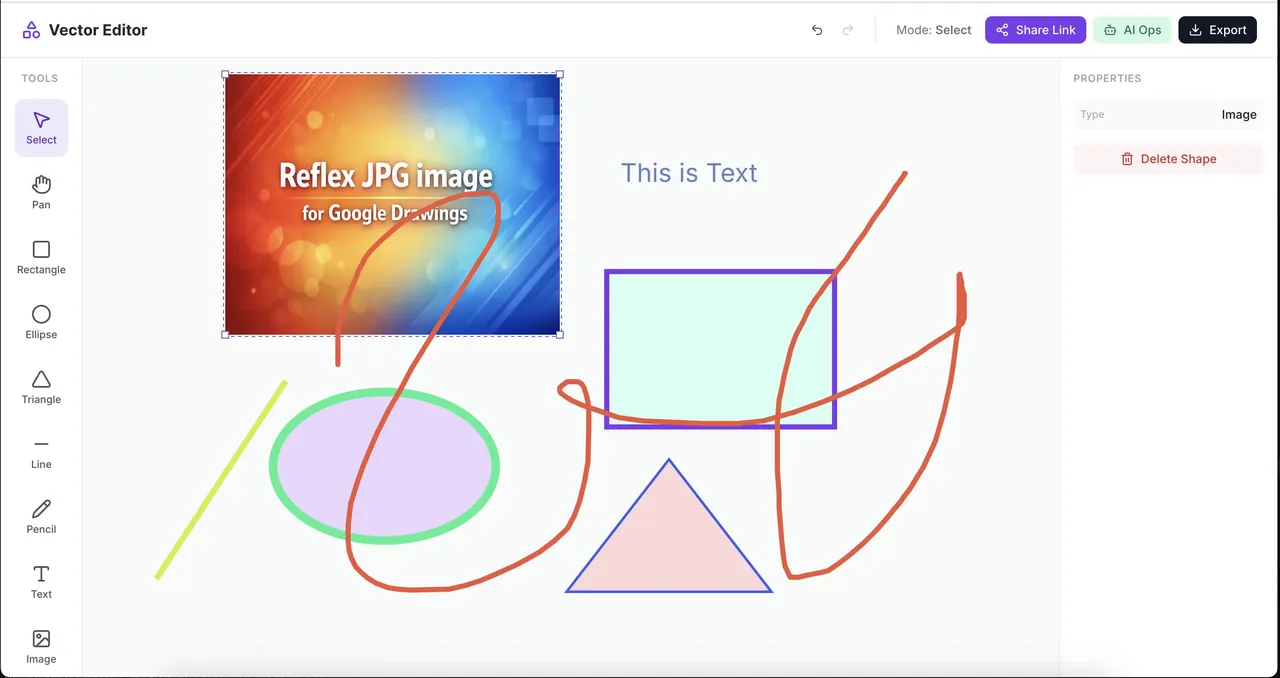
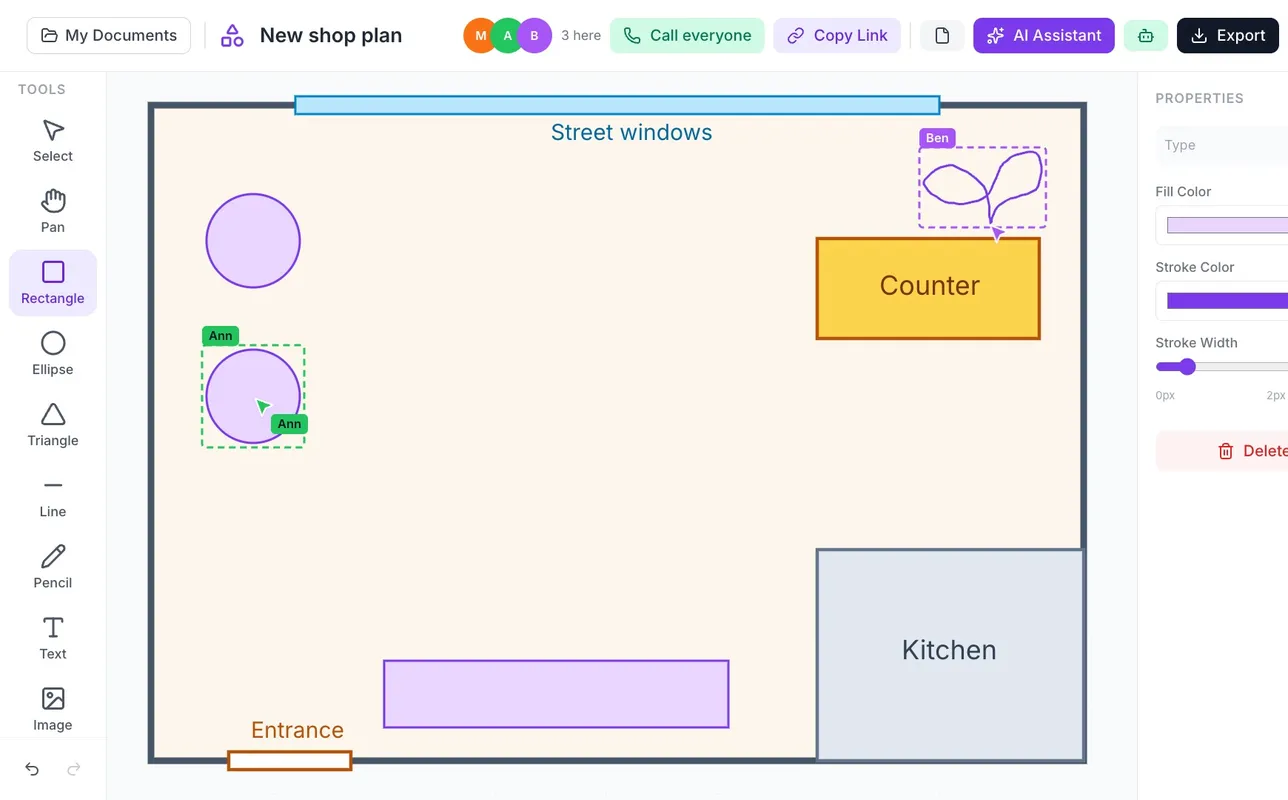
docs: Show Codoc in VecDraw in Relack and CoDoc in MD on the website
Add a story, "One picture. Always the latest.", with a picture of the
same drawing as a Relack card and inside a CoDoc in MD document.

Add the new VecDraw film in English and Chinese to the Videos section
and to the VecDraw, CoDoc in MD, Relack, AI Hub and LiveKit cards.

Rewrite the VecDraw card around links, cards, live pictures and AI, in
all 5 catalog languages, with a new picture. It now carries the AI tag.
Mention VecDraw on the CoDoc in MD and Relack cards, and update the
three rows in the README.

diff --git a/docs/site/apps.js b/docs/site/apps.js
@@ -25,8 +25,8 @@ window.AAS_APPS = [
   "repo": "https://github.com/milochen0418/codoc_in_md",
   "icon": "<svg class=\"lucide lucide-file-text\" xmlns=\"http://www.w3.org/2000/svg\" viewBox=\"0 0 24 24\" fill=\"none\" stroke=\"currentColor\" stroke-width=\"2\" stroke-linecap=\"round\" stroke-linejoin=\"round\" ><path d=\"M6 22a2 2 0 0 1-2-2V4a2 2 0 0 1 2-2h8a2.4 2.4 0 0 1 1.704.706l3.588 3.588A2.4 2.4 0 0 1 20 8v12a2 2 0 0 1-2 2z\" /><path d=\"M14 2v5a1 1 0 0 0 1 1h5\" /><path d=\"M10 9H8\" /><path d=\"M16 13H8\" /><path d=\"M16 17H8\" /></svg>",
   "desc": {
-   "en": "One link, and everyone is on the same page: a Markdown editor for writing together, live, each person with a color and a name tag, no account needed. One line of text puts a YouTube video, a PDF, a diagram or a working UserForm from ReflexGrid in the document. For meetings, classes, design docs and shared notes. With the AI Hub, AI rewrites what you select and writes in the document once you press Accept.",
-   "zh": "一個連結，大家就在同一頁：即時一起寫的 Markdown 編輯器，每個人有自己的顏色和名牌，不用帳號。打一行字就能放進 YouTube 影片、PDF、流程圖，或 ReflexGrid 裡能實際操作的 UserForm。開會、上課、寫規格、共筆都好用。裝了 AI Hub，AI 能改寫你選的段落，也能在你按下 Accept 後寫進文件。"
+   "en": "One link, and everyone is on the same page: a Markdown editor for writing together, live, each person with a color and a name tag, no account needed. One line of text puts a YouTube video, a PDF, a diagram, a live drawing from Codoc in VecDraw or a working UserForm from ReflexGrid in the document. For meetings, classes, design docs and shared notes. With the AI Hub, AI rewrites what you select and writes in the document once you press Accept.",
+   "zh": "一個連結，大家就在同一頁：即時一起寫的 Markdown 編輯器，每個人有自己的顏色和名牌，不用帳號。打一行字就能放進 YouTube 影片、PDF、流程圖、Codoc in VecDraw 裡會跟著更新的圖，或 ReflexGrid 裡能實際操作的 UserForm。開會、上課、寫規格、共筆都好用。裝了 AI Hub，AI 能改寫你選的段落，也能在你按下 Accept 後寫進文件。"
   },
   "img": "site/img/apps/md.webp",
   "collections": [
@@ -59,14 +59,14 @@ window.AAS_APPS = [
   "repo": "https://github.com/milochen0418/codoc_in_vecdraw",
   "icon": "<svg class=\"lucide lucide-pen-tool\" xmlns=\"http://www.w3.org/2000/svg\" viewBox=\"0 0 24 24\" fill=\"none\" stroke=\"currentColor\" stroke-width=\"2\" stroke-linecap=\"round\" stroke-linejoin=\"round\" ><path d=\"m18 13-.654-4.736a4 4 0 00-2.756-3.266l-9.163-2.9a2 2 0 00-2.017.493l-.82.819a2 2 0 00-.492 2.017l2.9 9.163a4 4 0 003.266 2.756L13 18\" /><path d=\"M18.648 12.352a1.205 1.205 0 011.704 0l1.296 1.296a1.205 1.205 0 010 1.704l-6.296 6.296a1.205 1.205 0 01-1.704 0l-1.296-1.296a1.205 1.205 0 010-1.704z\" /><path d=\"m3 3 6.586 6.586\" /><circle cx=\"11\" cy=\"11\" r=\"2\" /></svg>",
   "desc": {
-   "en": "A vector editor you draw in together, like Google Drawings: shapes, lines, text, freehand and images on an infinite canvas. Everyone's pointer and selection show with their name, while your tool, view and Undo stay your own. See who is here, Call everyone, and find every drawing in the shared drawings collection.",
-   "zh": "像 Google 繪圖一樣、可以一起畫的向量編輯器：形狀、線條、文字、手繪和圖片都在無限畫布上。每個人的游標和選取都標著名字，工具、視角和復原則各管各的。看得到誰在線上、能 Call everyone，每張圖都存在共用的 drawings collection。"
+   "en": "One picture, always the latest. A vector editor you draw in together, like Google Drawings: send a link instead of a screenshot, and the picture in your chat and in your documents follows the drawing. In Relack the link becomes a card, and one line of text puts the drawing in a CoDoc in MD document. Everyone's pointer shows with their name, while your tool, view and Undo stay your own. With the AI Hub, AI draws with you. Call everyone, and find every drawing in the shared drawings collection.",
+   "zh": "一張圖，永遠是最新的。像 Google 繪圖一樣、可以一起畫的向量編輯器：不用傳截圖，傳連結就好，聊天室和文件裡的圖都會跟著這張圖變。貼到 Relack 就變成看得到圖的卡片；在 CoDoc in MD 文件裡打一行字，圖就放進文件。每個人的游標都標著名字，工具、視角和復原則各管各的。裝了 AI Hub，AI 也能一起畫。還能 Call everyone，每張圖都存在共用的 drawings collection。"
   },
   "img": "site/img/apps/vecdraw.webp",
   "collections": [
    "drawings"
   ],
-  "ai": false,
+  "ai": true,
   "setup": false
  },
  {
@@ -301,8 +301,8 @@ window.AAS_APPS = [
   "repo": "https://github.com/milochen0418/relack",
   "icon": "<svg class=\"lucide lucide-messages-square\" xmlns=\"http://www.w3.org/2000/svg\" viewBox=\"0 0 24 24\" fill=\"none\" stroke=\"currentColor\" stroke-width=\"2\" stroke-linecap=\"round\" stroke-linejoin=\"round\" ><path d=\"M16 10a2 2 0 0 1-2 2H6.828a2 2 0 0 0-1.414.586l-2.202 2.202A.71.71 0 0 1 2 14.286V4a2 2 0 0 1 2-2h10a2 2 0 0 1 2 2z\" /><path d=\"M20 9a2 2 0 0 1 2 2v10.286a.71.71 0 0 1-1.212.502l-2.202-2.202A2 2 0 0 0 17.172 19H10a2 2 0 0 1-2-2v-1\" /></svg>",
   "desc": {
-   "en": "Team chat you own: rooms, threads, files, search, calls, webhooks and an admin console on your own machine. No per-seat fees, and your history stays with you. A self-hosted Slack alternative.",
-   "zh": "屬於你自己的團隊聊天：房間、討論串、檔案、搜尋、通話、Webhook 和管理後台，都在你自己的機器上。不用按人頭付費，歷史紀錄留在你手上。可自架的 Slack 替代方案。"
+   "en": "Team chat you own: rooms, threads, files, search, calls, webhooks and an admin console on your own machine. No per-seat fees, and your history stays with you. A self-hosted Slack alternative. Links from other apps become cards: a Snake Duel room shows its board, and a Codoc in VecDraw drawing shows its latest picture.",
+   "zh": "屬於你自己的團隊聊天：房間、討論串、檔案、搜尋、通話、Webhook 和管理後台，都在你自己的機器上。不用按人頭付費，歷史紀錄留在你手上。可自架的 Slack 替代方案。其他 App 的連結貼進來就變成卡片：雙蛇搶食的房間看得到場上畫面，Codoc in VecDraw 的圖永遠是最新的樣子。"
   },
   "img": "site/img/apps/relack.webp",
   "collections": [],

diff --git a/docs/index.html b/docs/index.html
@@ -242,6 +242,18 @@
       </div>
     </div>
     <div class="story rev">
+      <img lang="en" src="site/img/drawing-link.en.webp" width="1280" height="780" loading="lazy" decoding="async" alt="The same floor plan in two places: a card in a Relack room and a picture inside a CoDoc in MD document">
+      <img lang="zh-Hant" src="site/img/drawing-link.zh.webp" width="1280" height="780" loading="lazy" decoding="async" alt="同一張平面圖出現在兩個地方：Relack 房間裡的卡片，和 CoDoc in MD 文件裡的圖">
+      <div>
+        <span class="kicker"><span lang="en">Drawings, chat and documents</span><span lang="zh-Hant">圖、聊天與文件</span></span>
+        <h3><span lang="en">One picture. Always the latest.</span><span lang="zh-Hant">一張圖，永遠是最新的</span></h3>
+        <p lang="en">No more asking which screenshot is the latest. A drawing in Codoc in VecDraw has a link: paste it in Relack and it becomes a card with the picture on it, and even an old message shows the drawing as it is now. One line of text puts the same drawing in a CoDoc in MD document, where it follows each change as people draw. The AI Hub's assistant can draw on it too.</p>
+        <p lang="zh-Hant">不用再問哪張截圖才是最新的。Codoc in VecDraw 的每張圖都有連結：貼到 Relack，就變成看得到圖的卡片，舊訊息裡的圖也會是現在的樣子。在 CoDoc in MD 文件裡打一行字，同一張圖就放進文件，大家一邊畫，文件裡的圖就一邊跟著變。AI Hub 的助理也能幫忙畫。</p>
+        <a class="btn" lang="en" href="https://www.youtube.com/watch?v=hrBlC-gHpss"><svg class="b" viewBox="0 0 24 24" aria-hidden="true"><path d="M23.498 6.186a3.016 3.016 0 0 0-2.122-2.136C19.505 3.545 12 3.545 12 3.545s-7.505 0-9.377.505A3.017 3.017 0 0 0 .502 6.186C0 8.07 0 12 0 12s0 3.93.502 5.814a3.016 3.016 0 0 0 2.122 2.136c1.871.505 9.376.505 9.376.505s7.505 0 9.377-.505a3.015 3.015 0 0 0 2.122-2.136C24 15.93 24 12 24 12s0-3.93-.502-5.814zM9.545 15.568V8.432L15.818 12l-6.273 3.568z"/></svg>Watch: one picture, always the latest</a>
+        <a class="btn" lang="zh-Hant" href="https://www.youtube.com/watch?v=Oy-pKn_2G3s"><svg class="b" viewBox="0 0 24 24" aria-hidden="true"><path d="M23.498 6.186a3.016 3.016 0 0 0-2.122-2.136C19.505 3.545 12 3.545 12 3.545s-7.505 0-9.377.505A3.017 3.017 0 0 0 .502 6.186C0 8.07 0 12 0 12s0 3.93.502 5.814a3.016 3.016 0 0 0 2.122 2.136c1.871.505 9.376.505 9.376.505s7.505 0 9.377-.505a3.015 3.015 0 0 0 2.122-2.136C24 15.93 24 12 24 12s0-3.93-.502-5.814zM9.545 15.568V8.432L15.818 12l-6.273 3.568z"/></svg>觀看：一張圖，永遠是最新的</a>
+      </div>
+    </div>
+    <div class="story">
       <img src="site/img/ai-accept.webp" width="1120" height="780" loading="lazy" decoding="async" alt="The assistant in ReflexGrid shows the change it wants to make, with Accept, Accept all in this chat and Reject buttons">
       <div>
         <span class="kicker"><span lang="en">AI and your files</span><span lang="zh-Hant">AI 與你的檔案</span></span>
@@ -251,7 +263,7 @@
         <a class="btn" href="https://www.youtube.com/watch?v=196pWZceyas"><svg class="b" viewBox="0 0 24 24" aria-hidden="true"><path d="M23.498 6.186a3.016 3.016 0 0 0-2.122-2.136C19.505 3.545 12 3.545 12 3.545s-7.505 0-9.377.505A3.017 3.017 0 0 0 .502 6.186C0 8.07 0 12 0 12s0 3.93.502 5.814a3.016 3.016 0 0 0 2.122 2.136c1.871.505 9.376.505 9.376.505s7.505 0 9.377-.505a3.015 3.015 0 0 0 2.122-2.136C24 15.93 24 12 24 12s0-3.93-.502-5.814zM9.545 15.568V8.432L15.818 12l-6.273 3.568z"/></svg><span lang="en">Watch the ReflexGrid video</span><span lang="zh-Hant">看 ReflexGrid 影片（英文）</span></a>
       </div>
     </div>
-    <div class="story">
+    <div class="story rev">
       <img src="site/img/chat-game-link.webp" width="1280" height="720" loading="lazy" decoding="async" alt="A Snake Duel link in a Relack room, unfolded into a card with a picture of the board">
       <div>
         <span class="kicker"><span lang="en">Play together</span><span lang="zh-Hant">一起玩</span></span>

diff --git a/docs/site/site.js b/docs/site/site.js
@@ -53,6 +53,10 @@
       t: { en: "CoDoc in MD: one link, everyone writes", zh: "CoDoc in MD：一個連結，大家一起寫" },
       d: { en: "A Markdown document you write together: everyone has a color and a name tag, and one line of text puts a video, a PDF or a flowchart on the page. For meetings, classes, design docs and shared notes.",
            zh: "一起寫的 Markdown 文件：每個人有自己的顏色和名牌，打一行字就能放進 YouTube 影片、PDF、流程圖。開會、上課、寫規格、共筆都好用。" } },
+    { id: { en: "hrBlC-gHpss", zh: "Oy-pKn_2G3s" }, dur: { en: "2:15", zh: "2:10" },
+      t: { en: "Codoc in VecDraw: one picture, always the latest", zh: "Codoc in VecDraw：一張圖，永遠是最新的" },
+      d: { en: "Send a link instead of a screenshot: the card in Relack and the picture in a CoDoc in MD document follow the drawing. Draw together, each with your own tools, and tell the AI what to draw.",
+           zh: "傳連結，不傳截圖：Relack 的卡片和 CoDoc in MD 文件裡的圖都跟著這張圖變。大家一起畫，工具各用各的，跟 AI 說一聲它也會畫。" } },
     { id: { en: "196pWZceyas" }, dur: { en: "3:18" }, img: "site/img/videos/reflexgrid-intro.webp",
       t: { en: "ReflexGrid: the online Excel that runs your macros", zh: "ReflexGrid：能跑巨集的線上 Excel" },
       d: { en: "Real Excel files, VBA macros and UserForms in the browser, editing together, and AI that changes nothing until you press Accept.",
@@ -121,10 +125,10 @@
   // and the second in the Chinese version when it is not the same].
   // List a video here only if it really shows the app. An app without a video gets no icon.
   var APP_VIDEOS = {
-    "ai": [["jR9b1qqIzzM"], ["zJGloh9EZJw", 119, 112], ["cbQX8jrl_Nc", 122, 118]],
-    "md": [["cbQX8jrl_Nc"], ["zJGloh9EZJw"]],
+    "ai": [["jR9b1qqIzzM"], ["zJGloh9EZJw", 119, 112], ["cbQX8jrl_Nc", 122, 118], ["hrBlC-gHpss", 56, 55]],
+    "md": [["cbQX8jrl_Nc"], ["zJGloh9EZJw"], ["hrBlC-gHpss", 76, 74]],
     "plantuml": [["dbz7ta0M1TM", 61]],
-    "vecdraw": [["qPKxzscEXRo"]],
+    "vecdraw": [["hrBlC-gHpss"], ["qPKxzscEXRo"]],
     "cad": [["jR9b1qqIzzM"], ["8U_jHWmAXmA"]],
     "cad-roam": [["jR9b1qqIzzM", 54]],
     "dicom-data-explorer": [["HZKiZ_LepIs", 179], ["cHdsxtrEHtg", 63], ["4q_QHQv0wrI", 57], ["xwQz1Xm6ZZk", 60]],
@@ -132,8 +136,8 @@
     "pacs-lab": [["HZKiZ_LepIs"], ["cHdsxtrEHtg", 70]],
     "video-segment-splitter": [["dbz7ta0M1TM", 257]],
     "video-audio-mixer": [["DC_OD47kK3U"]],
-    "relack": [["J60fVC0Y5Ys"], ["xwQz1Xm6ZZk", 32], ["Y5YKXsWkrxg", 100]],
-    "livekit": [["cbQX8jrl_Nc", 46], ["Y5YKXsWkrxg", 43]],
+    "relack": [["J60fVC0Y5Ys"], ["hrBlC-gHpss", 13, 14], ["xwQz1Xm6ZZk", 32], ["Y5YKXsWkrxg", 100]],
+    "livekit": [["cbQX8jrl_Nc", 46], ["hrBlC-gHpss", 101, 99], ["Y5YKXsWkrxg", 43]],
     "video-chat": [["Y5YKXsWkrxg", 43]],
     "avatar-chat": [["cHdsxtrEHtg", 155], ["Y5YKXsWkrxg", 43]],
     "english-chat": [["Y5YKXsWkrxg", 43]],

diff --git a/README.md b/README.md
@@ -180,9 +180,9 @@ Apps are declared in [`data/appstore_catalog.json`](data/appstore_catalog.json).
 | App | Subdomain | Description |
 |-----|-----------|-------------|
 | AI Hub | `ai` | One door between AI and the apps: agents (Claude Code, …) use every app's tools through one MCP address (`/api/mcp`), and an assistant does tasks in the apps with Claude or a local Ollama model, waiting for your Accept on anything risky |
-| CoDoc in MD | `md` | Markdown documents you write together, live: one link, no account; one line of text puts a video, a PDF, a diagram or a ReflexGrid form or table in the document; AI rewrites a selection and writes after your Accept |
+| CoDoc in MD | `md` | Markdown documents you write together, live: one link, no account; one line of text puts a video, a PDF, a diagram, a live Codoc in VecDraw drawing or a ReflexGrid form or table in the document; AI rewrites a selection and writes after your Accept |
 | Codoc in PlantUML | `plantuml` | Collaborative diagrams in PlantUML |
-| Codoc in VecDraw | `vecdraw` | Collaborative vector drawing canvas: everyone's pointer and selection with their name, each with their own tool, view and Undo; who is here and Call everyone; drawings as `.json` + `.svg` in the `drawings` collection |
+| Codoc in VecDraw | `vecdraw` | Collaborative vector drawing canvas: one picture, always the latest. A link shows as a card in Relack, and one line of text puts the drawing, live, in a CoDoc in MD document; everyone's pointer and selection with their name, each with their own tool, view and Undo; AI draws through the AI Hub; who is here and Call everyone; drawings as `.json` + `.svg` in the `drawings` collection |
 | Codoc in CAD | `cad` | 3D CAD as code, together: co-edited build123d Python and a live 3D view, in colors, with glass and parts that give light; AI builds with you through the AI Hub |
 | DICOM Data Explorer | `dicom-data-explorer` | Search the public Imaging Data Commons or a PACS (DICOMweb, C-GET, C-MOVE) and download into the shared `dicom` collection, with annotations and resumable downloads |
 | DICOM Viewer | `dicom-viewer` | A DICOM viewer friendly to people new to it: one image or three views, annotations, and a link for every series to look at it together with Call everyone; not for diagnosis |
@@ -193,7 +193,7 @@ Apps are declared in [`data/appstore_catalog.json`](data/appstore_catalog.json).
 | Video to MP4 | `video-to-mp4` | Convert video formats to MP4 |
 | Video Audio Mixer | `video-audio-mixer` | Layer and mix audio tracks onto video |
 | PDF Signature | `pdf-signature` | Draw and export signatures on PDFs |
-| Relack | `relack` | Team chat you own: a self-hosted Slack alternative (Google sign-in optional) |
+| Relack | `relack` | Team chat you own: a self-hosted Slack alternative (Google sign-in optional); links from other apps, such as Snake Duel rooms and Codoc in VecDraw drawings, become cards |
 | LiveKit Audio Chat | `audio-chat` | Real-time audio conferencing (requires LiveKit env) |
 | LiveKit Audio Chat (self-hosted) | `livekit` | Audio rooms on a built-in open-source LiveKit server — no LiveKit Cloud, no keys (publishes media ports 7881/tcp + 7882/udp) |
 | LiveKit Video Chat (self-hosted) | `video-chat` | Video rooms (camera + microphone) on its own built-in LiveKit server — no keys (publishes media ports 7981/tcp + 7982/udp, so it can run next to the audio app) |
